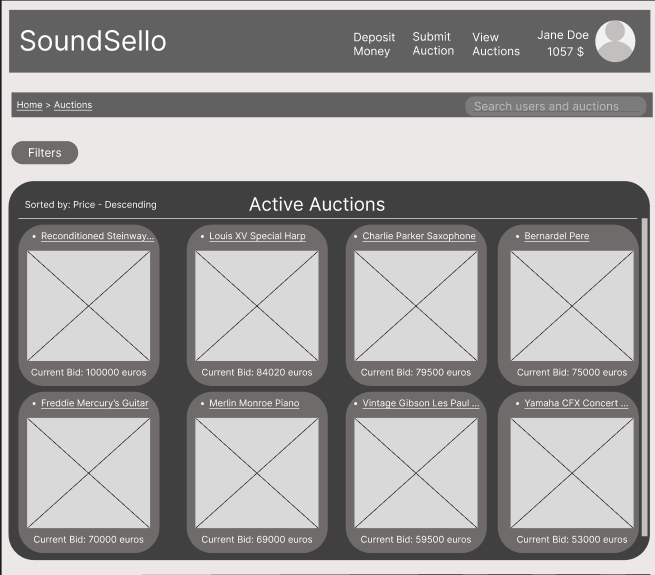
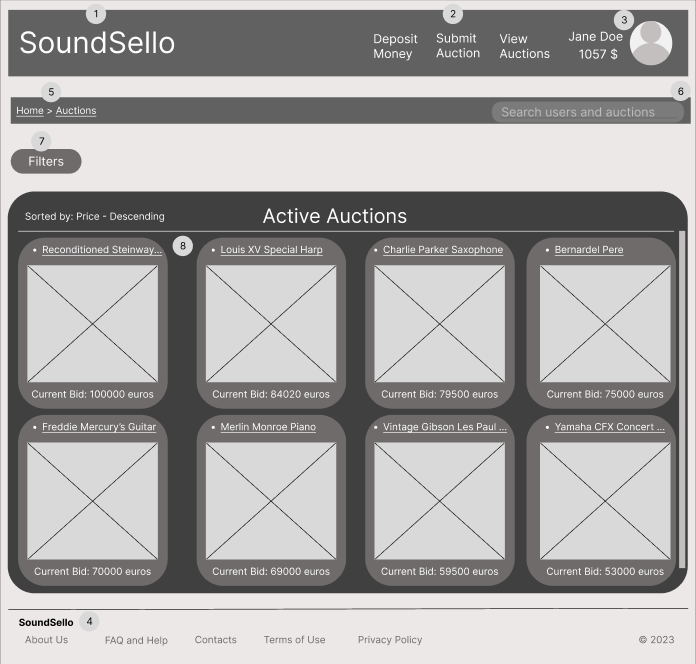
Wireframes

diff --git a/wiki/er.md b/wiki/er.md
@@ -916,6 +916,8 @@ Figure 3: SoundSello's home page
 4. Footer that contains all the links to "About Us", FAQ, Contacts, Terms of Use and Privacy Policy
 5. Breadcrumbs to help the user navigate.
 6. Search bar to help the user find auctions and other users.
+7. Message and visual content to greet users.
+8. Each auction card has a link to the auction in question.
 
 
 #### UI02: Profile Page
@@ -947,6 +949,10 @@ Figure 5: Auction page
 4. Footer that contains all the links to "About Us", FAQ, Contacts, Terms of Use and Privacy Policy
 5. Breadcrumbs to help the user navigate.
 6. Search bar to help the user find auctions and other users.
+7. Image of the auctioned item.
+8. Section displaying all user bids.
+9. Details about the specific item.
+10. Countdown timer displaying remaining auction time to users.
 
 #### UI09: Active Auctions Page
 
@@ -960,6 +966,8 @@ Figure 6: Active auctions page
 4. Footer that contains all the links to "About Us", FAQ, Contacts, Terms of Use and Privacy Policy
 5. Breadcrumbs to help the user navigate.
 6. Search bar to help the user find auctions and other users.
+7. Button for using filters to assist users in searching auctions.
+8. Each auction card has a link to the auction in question.
 
 ---
 
